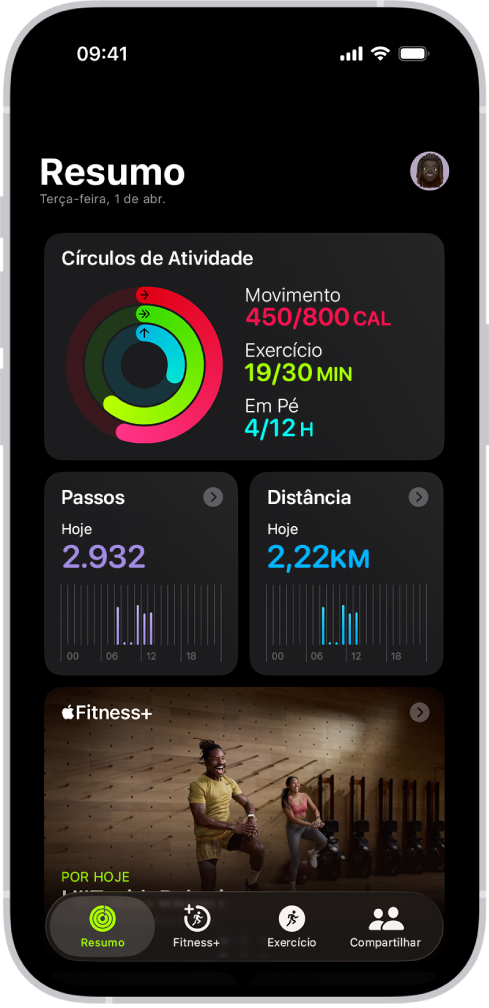
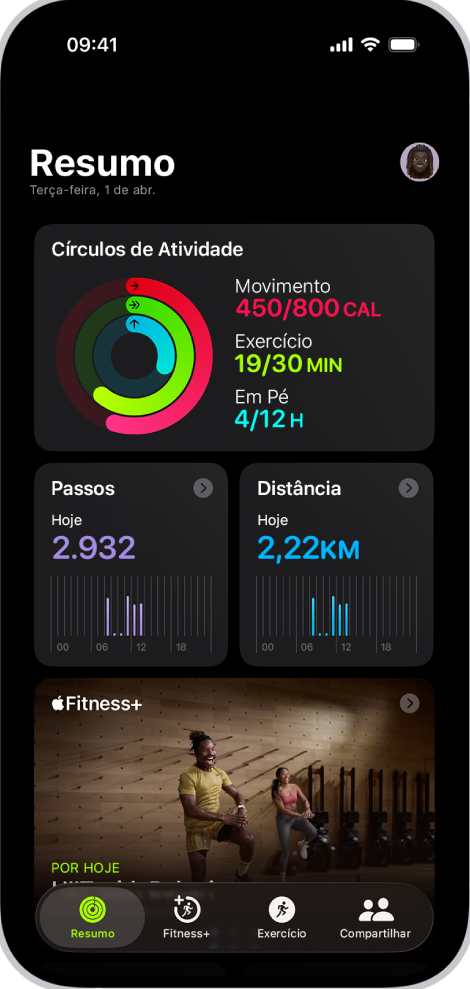
style(ui): refina tipografia, espaçamentos e identidade visual

diff --git a/style.css b/style.css
@@ -123,7 +123,7 @@ a {
 
 .hero-grid {
    display: grid;
-   grid-template-columns: 0.9fr 1fr 1.1fr;
+   grid-template-columns: 0.75fr 1.4fr 0.85fr;
    gap: 32px;
    align-items: center;
 }
@@ -144,9 +144,10 @@ a {
 
 .eyebrow {
    margin: 0 0 16px;
-   color: var(--secondary);
+   color: #06b6d4;
    font-size: 0.95rem;
-   letter-spacing: 0.08em;
+   font-weight: 600;
+   letter-spacing: 0.12em;
    text-transform: uppercase;
 }
 
@@ -165,20 +166,25 @@ a {
 
 .hero-image-wrapper {
    position: relative;
-   top: -20px;
-   padding: 12px;
-   max-width: 280px;
-   background: var(--surface);
-   border: 1px solid var(--border);
-   border-radius: var(--radius);
-   box-shadow: 0 24px 56px rgba(16, 24, 40, 0.08);
-   animation: floatIn 0.9s ease both;
+   top: 0;
+   padding: 0 !important;
+   max-width: 340px;
+   background: transparent !important;
+   border: none !important;
+   box-shadow: none !important;
+   margin: 0 !important;
+   border-radius: 0 !important;
+   overflow: visible !important;
 }
 
-.hero-image img {
-   border-radius: 24px;
-   max-height: 50vh;
-   width: auto;
+.hero-image img,
+.feature-image img {
+   display: block;
+   background: transparent;
+   border: none;
+   box-shadow: none;
+   width: 100%;
+   max-height: 460px;
    object-fit: contain;
 }
 
@@ -193,6 +199,12 @@ a {
    background: #ffffff;
    border: 1px solid #f1f1f1;
    box-shadow: 0 10px 30px rgba(0, 0, 0, 0.04);
+   transition: all 0.3s ease;
+}
+
+.benefit-card:hover {
+   transform: translateY(-4px);
+   box-shadow: 0 12px 30px rgba(124, 58, 237, 0.12);
 }
 
 .benefit-icon {
@@ -213,9 +225,9 @@ a {
 }
 
 .features {
-   padding: 80px 0;
+   padding: 64px 0;
    display: grid;
-   gap: 96px;
+   gap: 72px;
    max-width: 960px;
    margin: 0 auto;
 }
@@ -223,49 +235,56 @@ a {
 .feature {
    display: grid;
    grid-template-columns: 1fr 1fr;
-   gap: 56px;
+   gap: 48px;
    align-items: center;
+   min-height: auto;
 }
 
 .feature-reverse {
    grid-template-columns: 1fr 1fr;
-   direction: rtl;
+   direction: ltr;
 }
 
 .feature-reverse>* {
    direction: ltr;
 }
 
+.features .feature:nth-child(3) {
+   direction: ltr;
+}
+
+.features .feature:nth-child(3)>* {
+   direction: ltr;
+}
+
 .feature-copy {
-   max-width: 420px;
+   max-width: 360px;
 }
 
 .feature-copy h2 {
    margin: 16px 0 16px;
-   font-size: clamp(1.85rem, 2.2vw, 2.6rem);
+   font-size: clamp(2rem, 2.5vw, 2.4rem);
+   line-height: 1.2;
+   font-weight: 700;
+   color: #111827;
 }
 
 .feature-copy p {
    margin: 0;
-   color: var(--muted);
+   color: #6b7280;
    font-size: 1rem;
+   line-height: 1.8;
 }
 
 .feature-image {
-   border-radius: var(--radius);
-   overflow: hidden;
-   border: 1px solid var(--border);
-   background: #ffffff;
-   box-shadow: 0 24px 50px rgba(15, 23, 42, 0.06);
-   max-width: 300px;
-   margin: 0 auto;
-}
-
-.feature-image img {
-   width: 100%;
-   max-height: 520px;
-   object-fit: contain;
-   display: block;
+   background: transparent !important;
+   border: none !important;
+   box-shadow: none !important;
+   padding: 0 !important;
+   margin: 0 auto !important;
+   border-radius: 0 !important;
+   overflow: visible !important;
+   max-width: 340px;
 }
 
 .cta {
@@ -274,10 +293,10 @@ a {
 }
 
 .cta-panel {
-   max-width: 700px;
+   max-width: 720px;
    margin: 0 auto;
    text-align: center;
-   padding: 64px;
+   padding: 56px;
    border-radius: 32px;
    border: 1px solid rgba(124, 58, 237, 0.12);
    background: #ffffff;
@@ -285,24 +304,34 @@ a {
 }
 
 .cta-panel h2 {
-   margin: 0 0 32px;
-   font-size: clamp(2rem, 2.8vw, 3rem);
+   margin: 0 0 20px;
+   font-size: clamp(2rem, 3vw, 3rem);
    line-height: 1.05;
+}
+
+.button-cta,
+.button-primary {
+   background: linear-gradient(135deg, #7c3aed 0%, #6366f1 55%, #06b6d4 100%);
+   color: #ffffff;
 }
 
 .button-cta {
    width: min(320px, 100%);
+   min-width: 240px;
+   font-size: 1rem;
    padding: 18px 28px;
    border-radius: 16px;
 }
 
 .cta-note {
-   margin: 20px 0 0;
+   margin-top: 16px;
+   font-size: 0.95rem;
    color: var(--muted);
 }
 
 .site-footer {
    padding: 32px 0 48px;
+   border-top: 1px solid #f1f5f9;
 }
 
 .footer-grid {
@@ -321,13 +350,14 @@ a {
 }
 
 .footer-links a {
-   color: var(--muted);
+   color: #06b6d4;
    font-weight: 500;
+   transition: color 0.3s ease;
 }
 
 .footer-links a:hover,
 .footer-links a:focus-visible {
-   color: var(--text);
+   color: #7c3aed;
 }
 
 @media (max-width: 1024px) {
@@ -336,14 +366,18 @@ a {
    }
 
    .features {
-      padding: 64px 0;
-      gap: 72px;
+      padding: 56px 0;
+      gap: 56px;
    }
 
    .feature,
    .feature-reverse {
       grid-template-columns: 1fr;
-      gap: 40px;
+      gap: 32px;
+   }
+
+   .feature-image {
+      max-width: 260px;
    }
 
    .feature-reverse {
@@ -383,16 +417,16 @@ a {
    }
 
    .features {
-      padding: 56px 0;
-      gap: 64px;
+      padding: 48px 0;
+      gap: 48px;
    }
 
    .feature {
-      gap: 40px;
+      gap: 24px;
    }
 
    .feature-image {
-      max-width: 280px;
+      max-width: 240px;
    }
 
    .cta-panel {